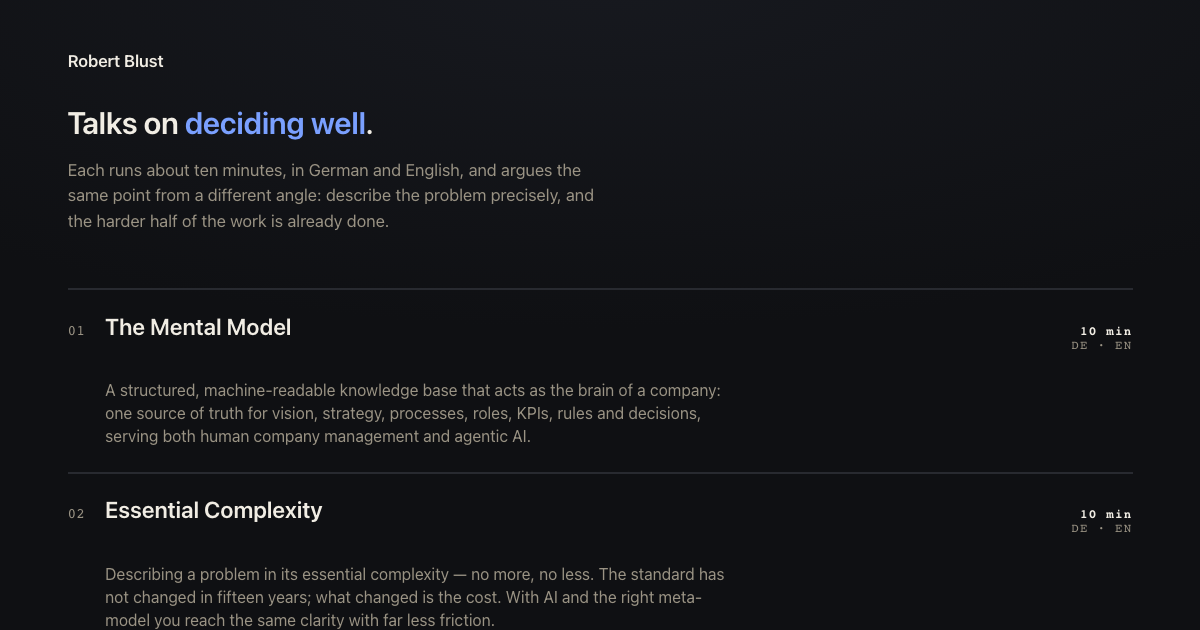
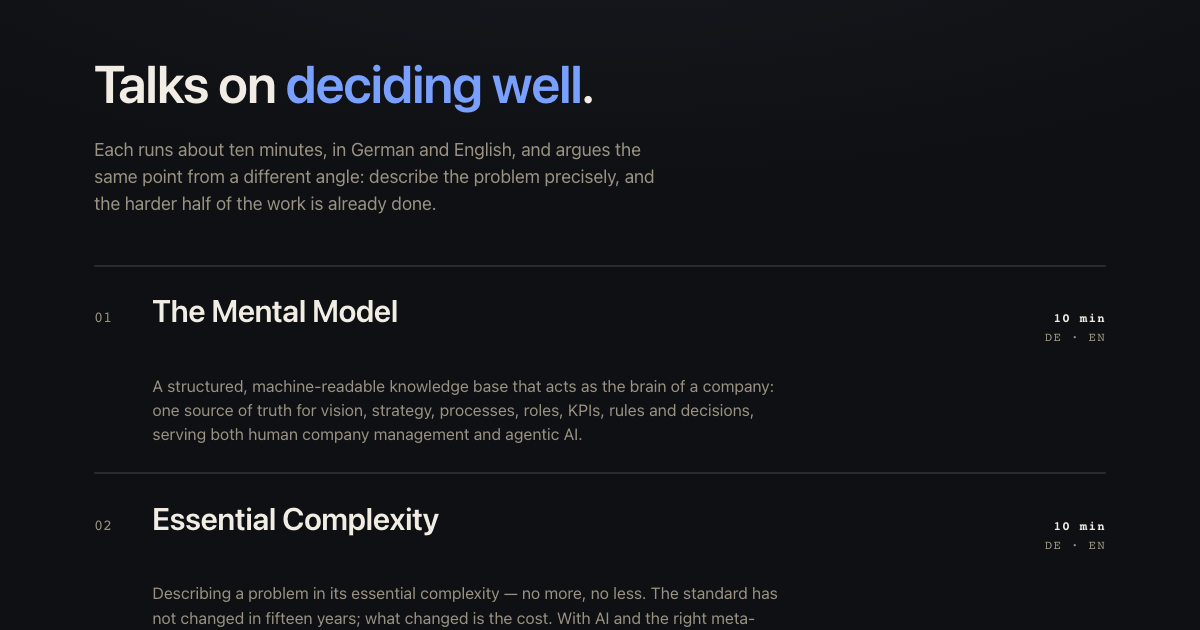
Give both pages the same lockup, header and footer
The profile page and the talks index were two different shapes: one a centred
column with a header bar and footer, the other full-bleed with a bare wordmark
and a row of links. They are the site's only prose pages, so a visitor moving
between them met a seam that said nothing.

The talks index now uses the profile page's shell, header and footer verbatim,
and both open with the rb mark left of the wordmark — favicon.svg inlined
rather than linked, because a linked asset renders as a broken box under
file://. It takes its colours from the tokens, so a palette change moves the
lockup and the favicon together.

Links to talks/ now stay in the tab and the two deck links open in a new one.
The old rule sent both to a new tab; its reasoning was always about decks —
a ten-minute talk you have not finished with — and talks/ is an index, a short
list page you read and leave. The rule moved to the links it was written for.

None of this is visible to the `links` check, which only inspects absolute http
hrefs, so `newTab` moved to the decks and a `sameTab` check now guards the
index links. `brandMark` asserts the inlined mark. All three were confirmed by
mutation: violating each fails, reverting passes.

diff --git a/talks/index.html b/talks/index.html
@@ -19,6 +19,9 @@
 <meta property="og:locale" content="en_GB">
 <meta name="twitter:card" content="summary_large_image">
 <style>
+  /* Shell, header, brand, nav and footer are the profile page's, deliberately: these two
+     are the site's only prose pages and a visitor moving between them should not feel a
+     seam. What differs below that line is the talk list, which only this page carries. */
   :root{
     --paper:#0f1013; --paper2:#191b20; --ink:#f1ede4; --muted:#9a9384; --cobalt:#7aa0ff;
     --line:#282a30;
@@ -26,90 +29,132 @@
   *{box-sizing:border-box; margin:0; padding:0}
   body{
     font-family:"IBM Plex Sans", ui-sans-serif, system-ui, -apple-system, "Segoe UI", Roboto, sans-serif;
-    background:var(--paper); color:var(--ink); min-height:100vh;
-    background-image:radial-gradient(130% 70% at 50% 0%, #17191f 0%, var(--paper) 62%);
+    background:var(--paper); color:var(--ink); line-height:1.5; min-height:100vh;
+    background-image:radial-gradient(120% 60% at 50% -10%, #17191f 0%, var(--paper) 60%);
     -webkit-font-smoothing:antialiased;
+    display:flex; flex-direction:column;
   }
+  a{color:inherit}
   .mono{font-family:"IBM Plex Mono", ui-monospace, "SF Mono", Menlo, monospace}
-  /* same rhythm as the deck and the profile page: full-bleed, vmin padding */
-  .wrap{padding:11vmin 10vmin 9vmin}
 
-  /* the same lockup the profile page opens with, styled as a way back to it */
-  .brand{display:inline-block; text-decoration:none; margin-bottom:5vmin; color:var(--ink)}
-  .brand b{font-weight:600; letter-spacing:-.01em; font-size:clamp(1.05rem,2.3vmin,1.5rem)}
-  .brand:hover, .brand:focus-visible{color:var(--cobalt)}
+  .shell{width:100%; max-width:1180px; margin:0 auto; padding:0 7vw}
 
-  h1{font-weight:600; line-height:1.15; letter-spacing:-.01em; font-size:clamp(1.9rem,4.6vmin,3.6rem); max-width:22ch}
+  header{padding:2rem 0}
+  .bar{display:flex; align-items:center; justify-content:space-between; gap:2rem}
+  .brand{display:flex; align-items:center; gap:.7rem; text-decoration:none}
+  .brand svg{width:28px; height:28px; flex:0 0 auto}
+  /* the mark is favicon.svg inlined, not linked: this site takes no external assets, and
+     the decks have to open from file://. Its colours come from the tokens rather than the
+     favicon's hard-coded hexes, so the two stay in step through a palette change. */
+  .brand .plate{fill:var(--paper2); stroke:var(--line); stroke-width:1.5}
+  .brand .rb{fill:var(--cobalt)}
+  .brand b{font-weight:600; font-size:1.06rem; letter-spacing:-.01em}
+  .brand b span{color:var(--cobalt)}
+  nav{display:flex; gap:1.9rem; font-family:"IBM Plex Mono", ui-monospace, monospace;
+      font-size:.8rem; letter-spacing:.1em; text-transform:uppercase}
+  nav a{color:var(--muted); text-decoration:none; padding-bottom:.2rem;
+        border-bottom:1px solid transparent}
+  nav a:hover, nav a:focus-visible{color:var(--ink); border-color:var(--cobalt)}
+  /* the bar is the same component on both pages, so this page says which one you are on
+     rather than dropping the item and leaving the header subtly different */
+  nav a[aria-current="page"]{color:var(--ink); border-color:var(--cobalt)}
+
+  main{flex:1; padding:2vh 0 5vh}
+
+  h1{font-weight:600; letter-spacing:-.02em; line-height:1.08;
+     font-size:clamp(2rem,4.4vw,3.4rem); max-width:22ch}
   h1 em{font-style:normal; color:var(--cobalt)}
-  .lede{margin-top:2.6vmin; font-size:clamp(1.05rem,2.2vmin,1.4rem); color:var(--muted); max-width:52ch; line-height:1.5}
+  .lede{margin-top:1.5rem; font-size:clamp(1.02rem,1.5vw,1.22rem); color:var(--muted);
+        max-width:52ch}
 
-  .talks{margin-top:8vmin}
+  .talks{margin-top:clamp(3rem,6vh,5rem)}
   .talk{
-    display:grid; grid-template-columns:auto 1fr auto; gap:1.2rem 3vmin; align-items:baseline;
-    border-top:2px solid var(--line); padding:3.4vmin 0;
+    display:grid; grid-template-columns:auto 1fr auto; gap:1rem 2.5rem; align-items:baseline;
+    border-top:2px solid var(--line); padding:clamp(1.6rem,3vh,2.4rem) 0;
     text-decoration:none; color:inherit; transition:border-color .2s ease;
   }
   .talk:last-child{border-bottom:2px solid var(--line)}
-  .talk:hover{border-color:var(--cobalt)}
-  .talk:hover .t{color:var(--cobalt)}
-  .num{font-family:"IBM Plex Mono",monospace; color:var(--muted); font-size:clamp(.9rem,1.7vmin,1.25rem)}
-  .t{font-size:clamp(1.4rem,3.4vmin,2.4rem); font-weight:600; line-height:1.2; transition:color .2s ease}
-  .d{grid-column:2; margin-top:1.2vmin; color:var(--muted); font-size:clamp(1rem,2.1vmin,1.45rem); line-height:1.45; max-width:62ch}
+  .talk:hover, .talk:focus-visible{border-color:var(--cobalt)}
+  .talk:hover .t, .talk:focus-visible .t{color:var(--cobalt)}
+  .num{font-family:"IBM Plex Mono",monospace; color:var(--muted); font-size:.95rem}
+  .t{font-size:clamp(1.3rem,2.6vw,2rem); font-weight:600; line-height:1.2;
+     letter-spacing:-.015em; transition:color .2s ease}
+  .d{grid-column:2; margin-top:.7rem; color:var(--muted);
+     font-size:clamp(1rem,1.35vw,1.15rem); line-height:1.5; max-width:62ch}
   .meta{
-    font-family:"IBM Plex Mono",monospace; font-size:clamp(.78rem,1.5vmin,1.05rem);
+    font-family:"IBM Plex Mono",monospace; font-size:.78rem;
     color:var(--muted); letter-spacing:.1em; white-space:nowrap; text-align:right;
   }
   .meta b{color:var(--ink); font-weight:600}
 
-  .foot{margin-top:8vmin; display:flex; flex-wrap:wrap; gap:.9rem 3vmin;
-        font-family:"IBM Plex Mono",monospace; font-size:clamp(.72rem,1.4vmin,.95rem);
-        letter-spacing:.1em; color:var(--muted)}
-  .foot a{color:var(--cobalt); text-decoration:none}
-  .foot a:hover{text-decoration:underline}
+  footer{padding:0 0 2rem; display:flex; flex-wrap:wrap; gap:.9rem 2.6rem; align-items:center;
+         font-family:"IBM Plex Mono", ui-monospace, monospace; font-size:.76rem;
+         letter-spacing:.08em; color:var(--muted)}
+  footer a{color:var(--cobalt); text-decoration:none}
+  footer a:hover, footer a:focus-visible{text-decoration:underline}
 
-  @media (max-width:860px), (max-aspect-ratio:4/5){
-    .wrap{padding:16vmin 7vw 10vh}
-    h1{font-size:clamp(1.6rem,7.5vw,2.6rem); max-width:100%}
-    .lede{font-size:clamp(1rem,4.4vw,1.3rem); max-width:100%}
+  :focus-visible{outline:2px solid var(--cobalt); outline-offset:3px; border-radius:3px}
+
+  @media (max-width:900px){
+    .lede{max-width:100%}
+    nav{gap:1.4rem}
+    main{padding:1vh 0 4vh}
     .talk{grid-template-columns:auto 1fr; gap:.6rem 1.2rem}
     .meta{grid-column:2; text-align:left; margin-top:.6rem}
     .d{grid-column:2; max-width:100%}
+  }
+  @media (prefers-reduced-motion:reduce){
+    .talk, .t, nav a{transition:none}
   }
 </style>
 </head>
 <body>
 
-<main class="wrap">
-  <a class="brand" href="../"><b>Robert Blust</b></a>
-  <h1>Talks on <em>deciding well</em>.</h1>
-  <p class="lede">Each runs about ten minutes, in German and English, and argues the same
-    point from a different angle: describe the problem precisely, and the harder half of
-    the work is already done.</p>
+<div class="shell">
+  <header>
+    <div class="bar">
+      <a class="brand" href="../"><svg viewBox="0 0 32 32" aria-hidden="true"><rect class="plate" x=".75" y=".75" width="30.5" height="30.5" rx="7"/><text class="rb" x="16" y="22.5" text-anchor="middle" font-family="IBM Plex Mono, ui-monospace, SFMono-Regular, Menlo, monospace" font-size="17" font-weight="600">rb</text></svg><b>Robert <span>Blust</span></b></a>
+      <nav>
+        <a href="./" aria-current="page">Talks</a>
+      </nav>
+    </div>
+  </header>
+</div>
 
-  <div class="talks">
-    <a class="talk" href="mental-model/">
-      <span class="num mono">01</span>
-      <span class="t">The Mental Model</span>
-      <span class="meta mono"><b>10 min</b><br>DE · EN</span>
-      <span class="d">A structured, machine-readable knowledge base that acts as the brain of a
-        company: one source of truth for vision, strategy, processes, roles, KPIs, rules and
-        decisions, serving both human company management and agentic AI.</span>
-    </a>
-    <a class="talk" href="essential-complexity/">
-      <span class="num mono">02</span>
-      <span class="t">Essential Complexity</span>
-      <span class="meta mono"><b>10 min</b><br>DE · EN</span>
-      <span class="d">Describing a problem in its essential complexity — no more, no less. The
-        standard has not changed in fifteen years; what changed is the cost. With AI and the right
-        meta-model you reach the same clarity with far less friction.</span>
-    </a>
-  </div>
+<main>
+  <div class="shell">
+    <h1>Talks on <em>deciding well</em>.</h1>
+    <p class="lede">Each runs about ten minutes, in German and English, and argues the same
+      point from a different angle: describe the problem precisely, and the harder half of
+      the work is already done.</p>
 
-  <div class="foot">
-    <span><a target="_blank" rel="noopener" href="https://github.com/robertblust">github.com/robertblust</a></span>
-    <span><a target="_blank" rel="noopener" href="https://www.linkedin.com/in/robertblust/">linkedin.com/in/robertblust</a></span>
+    <div class="talks">
+      <a class="talk" target="_blank" rel="noopener" href="mental-model/">
+        <span class="num mono">01</span>
+        <span class="t">The Mental Model</span>
+        <span class="meta mono"><b>10 min</b><br>DE · EN</span>
+        <span class="d">A structured, machine-readable knowledge base that acts as the brain of a
+          company: one source of truth for vision, strategy, processes, roles, KPIs, rules and
+          decisions, serving both human company management and agentic AI.</span>
+      </a>
+      <a class="talk" target="_blank" rel="noopener" href="essential-complexity/">
+        <span class="num mono">02</span>
+        <span class="t">Essential Complexity</span>
+        <span class="meta mono"><b>10 min</b><br>DE · EN</span>
+        <span class="d">Describing a problem in its essential complexity — no more, no less. The
+          standard has not changed in fifteen years; what changed is the cost. With AI and the right
+          meta-model you reach the same clarity with far less friction.</span>
+      </a>
+    </div>
   </div>
 </main>
+
+<div class="shell">
+  <footer>
+    <span><a target="_blank" rel="noopener" href="https://github.com/robertblust">github.com/robertblust</a></span>
+    <span><a target="_blank" rel="noopener" href="https://www.linkedin.com/in/robertblust/">linkedin.com/in/robertblust</a></span>
+  </footer>
+</div>
 
 </body>
 </html>

diff --git a/index.html b/index.html
@@ -41,6 +41,12 @@
   header{padding:2rem 0}
   .bar{display:flex; align-items:center; justify-content:space-between; gap:2rem}
   .brand{display:flex; align-items:center; gap:.7rem; text-decoration:none}
+  .brand svg{width:28px; height:28px; flex:0 0 auto}
+  /* the mark is favicon.svg inlined, not linked: this site takes no external assets, and
+     the decks have to open from file://. Its colours come from the tokens rather than the
+     favicon's hard-coded hexes, so the two stay in step through a palette change. */
+  .brand .plate{fill:var(--paper2); stroke:var(--line); stroke-width:1.5}
+  .brand .rb{fill:var(--cobalt)}
   .brand b{font-weight:600; font-size:1.06rem; letter-spacing:-.01em}
   .brand b span{color:var(--cobalt)}
   nav{display:flex; gap:1.9rem; font-family:"IBM Plex Mono", ui-monospace, monospace;
@@ -103,9 +109,9 @@
 <div class="shell">
   <header>
     <div class="bar">
-      <a class="brand" href="./"><b>Robert <span>Blust</span></b></a>
+      <a class="brand" href="./"><svg viewBox="0 0 32 32" aria-hidden="true"><rect class="plate" x=".75" y=".75" width="30.5" height="30.5" rx="7"/><text class="rb" x="16" y="22.5" text-anchor="middle" font-family="IBM Plex Mono, ui-monospace, SFMono-Regular, Menlo, monospace" font-size="17" font-weight="600">rb</text></svg><b>Robert <span>Blust</span></b></a>
       <nav>
-        <a target="_blank" rel="noopener" href="talks/">Talks</a>
+        <a href="talks/">Talks</a>
       </nav>
     </div>
   </header>
@@ -128,7 +134,7 @@
         <a target="_blank" rel="noopener" href="https://likemagic.tech">LIKE MAGIC</a>.
       </p>
       <div class="cta">
-        <a target="_blank" rel="noopener" class="btn primary" href="talks/">See the talks</a>
+        <a class="btn primary" href="talks/">See the talks</a>
       </div>
     </div>
   </div>

diff --git a/CLAUDE.md b/CLAUDE.md
@@ -112,18 +112,33 @@ export ELEVENLABS_API_KEY="$(zsh -ic 'printf %s "$ELEVENLABS_API_KEY"' 2>/dev/nu
 - **Never `eval` an extraction from the shell profile.** A bare `export` with no match
   prints the whole environment.
 
-## Every link off the landing page opens in a new tab — including the talks
+## A deck opens in a new tab; moving between the two pages does not
 
-`github.com`, `linkedin.com`, `3ap.ch` and `likemagic.tech` are outbound and obviously
-belong in a new tab. Less obviously, so do the two links to `talks/` — the nav item and
-the button. Opening a same-site link in a new tab is normally the wrong instinct, because
-it takes the back button away from the reader. It is deliberate here for the same reason
-guestgraph.io does it with its own talk link: someone who opens a ten-minute talk has not
-finished with the page that sent them, and a deck that swallows the tab it was opened from
-is a deck they have to navigate back out of.
+`github.com`, `linkedin.com`, `3ap.ch` and `likemagic.tech` are outbound and belong in a
+new tab. So does a deck: someone who opens a ten-minute talk has not finished with the
+page that sent them, and a deck that swallows the tab it was opened from is a deck they
+have to navigate back out of. The two deck links on `talks/index.html` therefore carry
+`target="_blank" rel="noopener"`.
 
-The `links` check in `verify/check.mjs` only inspects absolute `http` hrefs, so a relative
-`talks/` link slips straight past it. That is what the separate `newTab` check is for.
+The links to `talks/` do not, and used to. The rule above was once written to cover them —
+the nav item and the button on the profile page — but `talks/` is an index, not a deck:
+a short list page you read and leave. Nothing about it is worth taking the back button
+away for, and the argument that justifies the exception simply does not reach it. Same
+site, same tab.
+
+Both halves are invisible to the `links` check in `verify/check.mjs`, which only inspects
+absolute `http` hrefs — a relative `talks/` or `mental-model/` slips straight past it.
+That blind spot is what the separate `newTab` and `sameTab` checks exist to cover, and it
+is why flipping one of these rules means editing a check, not just an `href`.
+
+## The brand lockup is a mark plus a wordmark, and the mark is inlined
+
+Both pages open with the `rb` mark left of **Robert Blust**, the same shape guestgraph.io
+uses. The mark is `favicon.svg` reproduced as inline SVG rather than `<img src=...>`,
+because a linked asset renders as a broken box under `file://` — see *No external assets*
+above. It draws its colours from the CSS tokens instead of the favicon's hard-coded hexes,
+so a palette change moves both together; the favicon keeps its own hexes because it has to
+stand alone. `verify/check.mjs` asserts the inline mark on both pages.
 
 ## Notes live inside HTML attributes, and that bites three specific ways
 
